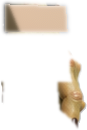
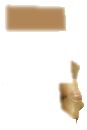
Add files via upload

Changed region(s): [[0.023, 0.0, 0.7816, 0.2769], [0.6437, 0.4308, 0.9885, 0.9846], [0.0, 0.6154, 0.046, 0.8]]

diff --git a/src/hunt.js b/src/hunt.js
@@ -108,7 +108,8 @@ function sceneSet(url){if(url===sceneCur)return;scenePrev=sceneCur;sceneCur=url;
 function scenePreload(i){const s=HUNT.stations[i];if(s&&s.scene)sceneLoad(s.scene);}
 // the photo is a full-width band across the upper screen (whole storefront visible, nothing cropped off the sides); the characters stand on the dark ground in front of it
 function drawPhoto(ctx,W,H,url,alpha,t){const S=url&&SCENES[url];if(!S||!S.ok)return false;const im=S.im,z=1.01+0.01*Math.sin(t*0.12);
- const sc=(W/im.width)*z,w=im.width*sc,hh=im.height*sc,x=(W-w)/2,y=H*0.105-(hh-im.height*(W/im.width))/2;
+ // fit to width; if that leaves the photo's ground line above Agatha's feet (landmark low in the frame), scale up a little (cropping the sides) until it reaches them
+ const key=(url.match(/([^\/]+)\.jpg$/)||[])[1],g=SCENE_GROUND[key]||0.8,top=H*0.105,need=(H*0.77-top)/(g*im.height),fit=W/im.width,sc=Math.min(fit*1.3,Math.max(fit,need))*z,w=im.width*sc,hh=im.height*sc,x=(W-w)/2,y=top-(sc/z-sc)*0;
  ctx.save();ctx.globalAlpha=alpha;ctx.drawImage(im,x,y,w,hh);
  const fe=ctx.createLinearGradient(0,y,0,y+hh*0.10);fe.addColorStop(0,'rgba(18,12,30,1)');fe.addColorStop(1,'rgba(18,12,30,0)');ctx.fillStyle=fe;ctx.fillRect(0,y,W,hh*0.10);
  const fb=ctx.createLinearGradient(0,y+hh*0.80,0,y+hh);fb.addColorStop(0,'rgba(8,5,14,0)');fb.addColorStop(1,'rgba(8,5,14,0.9)');ctx.fillStyle=fb;ctx.fillRect(0,y+hh*0.80,W,hh*0.20);
